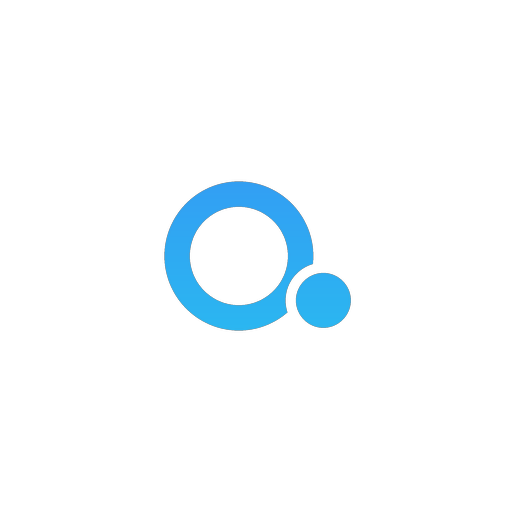
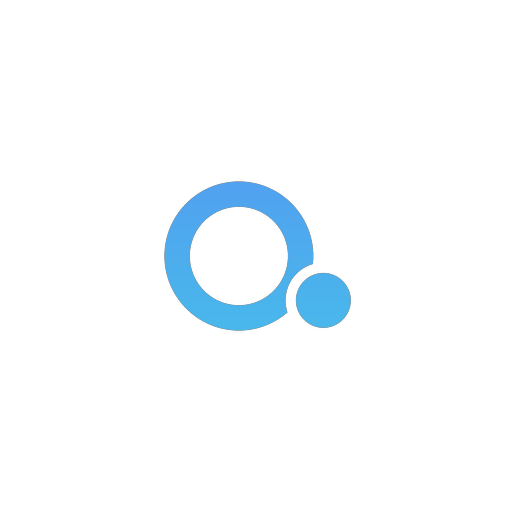
A calmer palette and larger type
The electric blue on near-black becomes a deep ink with a faint indigo
warmth, a calm indigo-blue accent and a mint-cyan partner; secondary text
is brighter so it reads on a phone outdoors. Every size steps up one
notch, the hero number steps down, corners soften a little, and the icons
are regenerated in the same colours. All from the tokens in ui/theme.ts.

Changed region(s): [[0.3125, 0.3438, 0.6875, 0.6562]]

diff --git a/src/ui/theme.ts b/src/ui/theme.ts
@@ -2,39 +2,40 @@
  * Design tokens. Everything visual comes from here, so a change to the palette
  * moves the whole app at once.
  *
- * The language is a blue-black instrument panel: near-black with a blue cast,
- * cards a shade lighter with hairline borders, electric blue as the primary
- * accent and cyan as its brighter partner. Numbers are large and light;
- * labels are tiny, uppercase and quiet.
+ * The language is a deep ink panel: a near-black with a faint indigo warmth,
+ * cards a shade lighter with soft hairline edges, a calm indigo-blue as the
+ * primary accent and a mint-cyan as its brighter partner. Secondary text is
+ * kept readable on a phone in daylight. Numbers are light; labels are small,
+ * uppercase and quiet.
  */
 export const C = {
-  bg: '#07090F',
-  bgAlt: '#0B0E17',
-  card: '#10131D',
-  cardAlt: '#161A27',
-  cardHigh: '#1B2030',
-  border: '#1C2233',
-  borderStrong: '#2A3247',
+  bg: '#0A0B10',
+  bgAlt: '#0E1017',
+  card: '#141721',
+  cardAlt: '#1B1F2B',
+  cardHigh: '#222736',
+  border: '#232838',
+  borderStrong: '#323A4F',
 
-  text: '#E9EDF7',
-  textDim: '#8992A8',
-  textFaint: '#5A6379',
-  textGhost: '#3A4256',
+  text: '#F2F4F8',
+  textDim: '#A4ACBF',
+  textFaint: '#6E778C',
+  textGhost: '#474E60',
 
-  accent: '#3B82F6',
-  accentSoft: '#1E3A8A',
-  accentDim: '#1A2744',
+  accent: '#5B86F5',
+  accentSoft: '#2B3F7A',
+  accentDim: '#1C2540',
 
-  cyan: '#22D3EE',
-  cyanSoft: '#155E75',
-  violet: '#8B5CF6',
-  violetSoft: '#4C1D95',
-  green: '#10B981',
-  amber: '#F59E0B',
-  amberSoft: '#78350F',
-  red: '#EF4444',
-  redSoft: '#7F1D1D',
-  pink: '#EC4899',
+  cyan: '#3FD3E6',
+  cyanSoft: '#17606B',
+  violet: '#9B7CFF',
+  violetSoft: '#4A3590',
+  green: '#34C98E',
+  amber: '#F0B23F',
+  amberSoft: '#6E4A12',
+  red: '#F06270',
+  redSoft: '#6E2630',
+  pink: '#F06AA7',
 
   white: '#FFFFFF',
   scrim: 'rgba(4, 6, 11, 0.7)',
@@ -44,9 +45,9 @@ export const S = {
   gap: 12,
   pad: 16,
   padLg: 20,
-  radius: 16,
-  radiusSm: 12,
-  radiusXs: 8,
+  radius: 18,
+  radiusSm: 13,
+  radiusXs: 9,
   hairline: 1,
   gutter: 16,
   gutterWide: 24,
@@ -56,22 +57,23 @@ export const S = {
 /** Durations in ms. One curve for everything, ease-out cubic. */
 export const M = { fast: 180, base: 320, slow: 600 };
 
+/** One step larger than before across the board: this is read on a phone, often outdoors. */
 export const F = {
-  display: 44,
-  h1: 27,
-  h2: 20,
-  h3: 15,
-  body: 14,
-  small: 12,
-  tiny: 11,
-  micro: 10,
-  hero: 56,
+  display: 40,
+  h1: 28,
+  h2: 22,
+  h3: 16,
+  body: 15,
+  small: 13,
+  tiny: 12,
+  micro: 11,
+  hero: 52,
 };
 
-/** Tiny uppercase label style used for every section heading and stat caption. */
+/** Small uppercase label style used for every section heading and stat caption. */
 export const MICRO = {
   fontSize: F.micro,
-  letterSpacing: 1.1,
+  letterSpacing: 0.9,
   textTransform: 'uppercase' as const,
   fontWeight: '500' as const,
 };

diff --git a/src/app/+html.tsx b/src/app/+html.tsx
@@ -7,7 +7,7 @@ import React, { type PropsWithChildren } from 'react';
  * highlight, and inputs at 16px so iOS does not zoom into them.
  */
 const APP_CSS = `
-html, body { background: #07090F; overscroll-behavior: none; -webkit-tap-highlight-color: transparent; }
+html, body { background: #0A0B10; overscroll-behavior: none; -webkit-tap-highlight-color: transparent; }
 body { -webkit-touch-callout: none; -webkit-user-select: none; user-select: none; -webkit-text-size-adjust: 100%; touch-action: pan-x pan-y; }
 input, textarea, [contenteditable] { -webkit-user-select: text; user-select: text; font-size: 16px !important; }
 `;
@@ -31,7 +31,7 @@ export default function Root({ children }: PropsWithChildren) {
         {/* maximum-scale=1 stops iOS zooming the page when a text box is tapped. */}
         <meta name="viewport" content="width=device-width, initial-scale=1, maximum-scale=1, shrink-to-fit=no, viewport-fit=cover" />
         <meta name="description" content="A local-first health companion. Food, sleep, movement and mind, with the AI on your own PC." />
-        <meta name="theme-color" content="#07090F" />
+        <meta name="theme-color" content="#0A0B10" />
         <meta name="color-scheme" content="dark" />
         {/* Pinned to an iPhone home screen: this icon and name, and no Safari chrome around the app. */}
         <link rel="apple-touch-icon" href="/apple-touch-icon.png" />

diff --git a/src/ui/TopBar.tsx b/src/ui/TopBar.tsx
@@ -38,7 +38,7 @@ export function TopBar({
         }}>
         {left}
         <View style={{ flex: 1, gap: 2 }}>
-          <Text numberOfLines={1} style={{ color: C.text, fontSize: F.h2, fontWeight: '600', letterSpacing: -0.3 }}>
+          <Text numberOfLines={1} style={{ color: C.text, fontSize: wide ? F.h2 : F.h2 - 2, fontWeight: '600', letterSpacing: -0.3 }}>
             {title}
             {alt ? <Text style={{ color: C.textFaint, fontWeight: '400' }}> {alt}</Text> : null}
           </Text>

diff --git a/scripts/make-logo.py b/scripts/make-logo.py
@@ -5,9 +5,9 @@ you. Colours come from src/ui/theme.ts. Run with: python3 scripts/make-logo.py
 """
 from PIL import Image, ImageDraw, ImageFilter
 
-BG = (0x0B, 0x0E, 0x17)          # C.bgAlt
-ACCENT = (0x3B, 0x82, 0xF6)      # C.accent
-CYAN = (0x22, 0xD3, 0xEE)        # C.cyan
+BG = (0x0E, 0x10, 0x17)          # C.bgAlt
+ACCENT = (0x5B, 0x86, 0xF5)      # C.accent
+CYAN = (0x3F, 0xD3, 0xE6)        # C.cyan
 WHITE = (255, 255, 255)
 SS = 4                           # supersample for smooth edges
 
